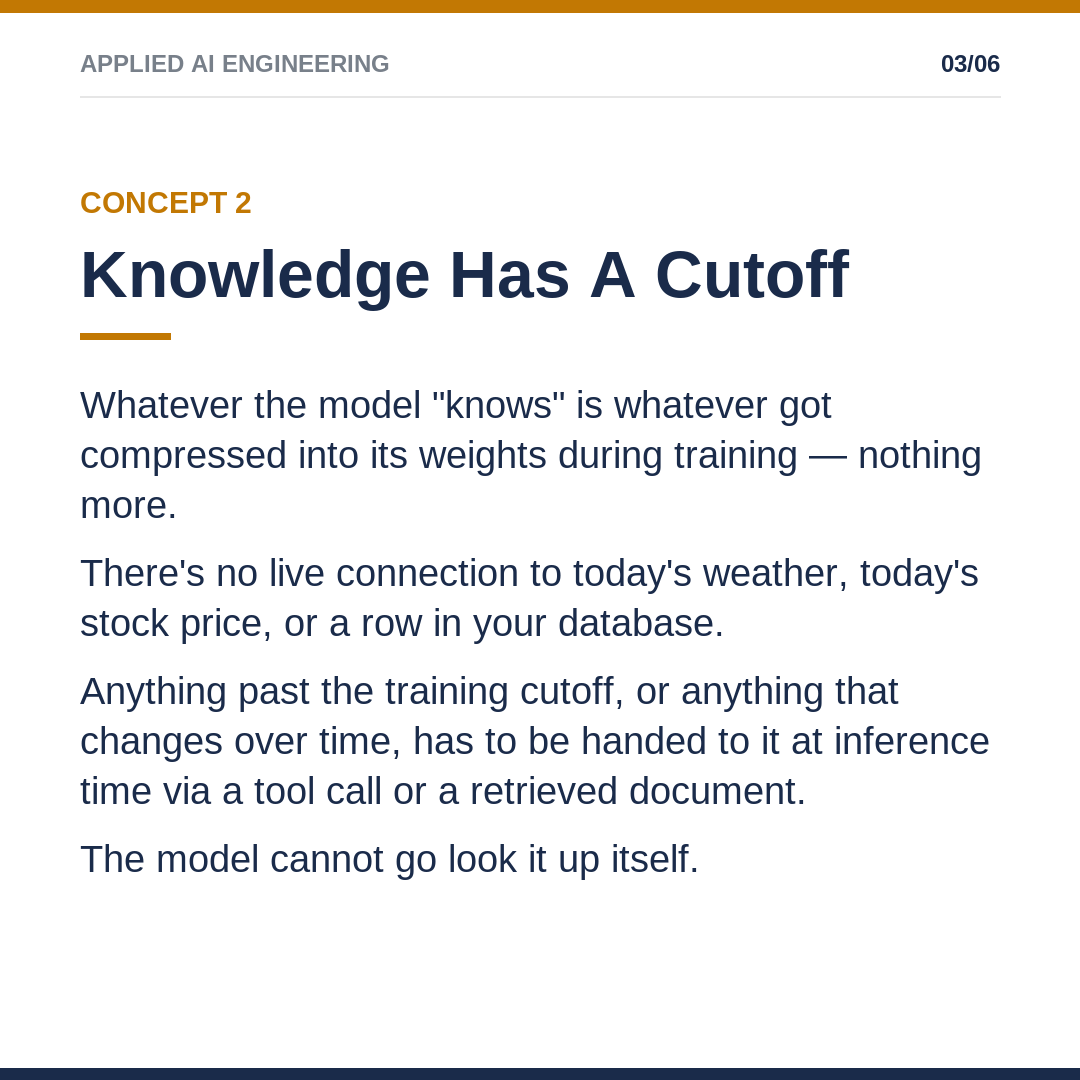
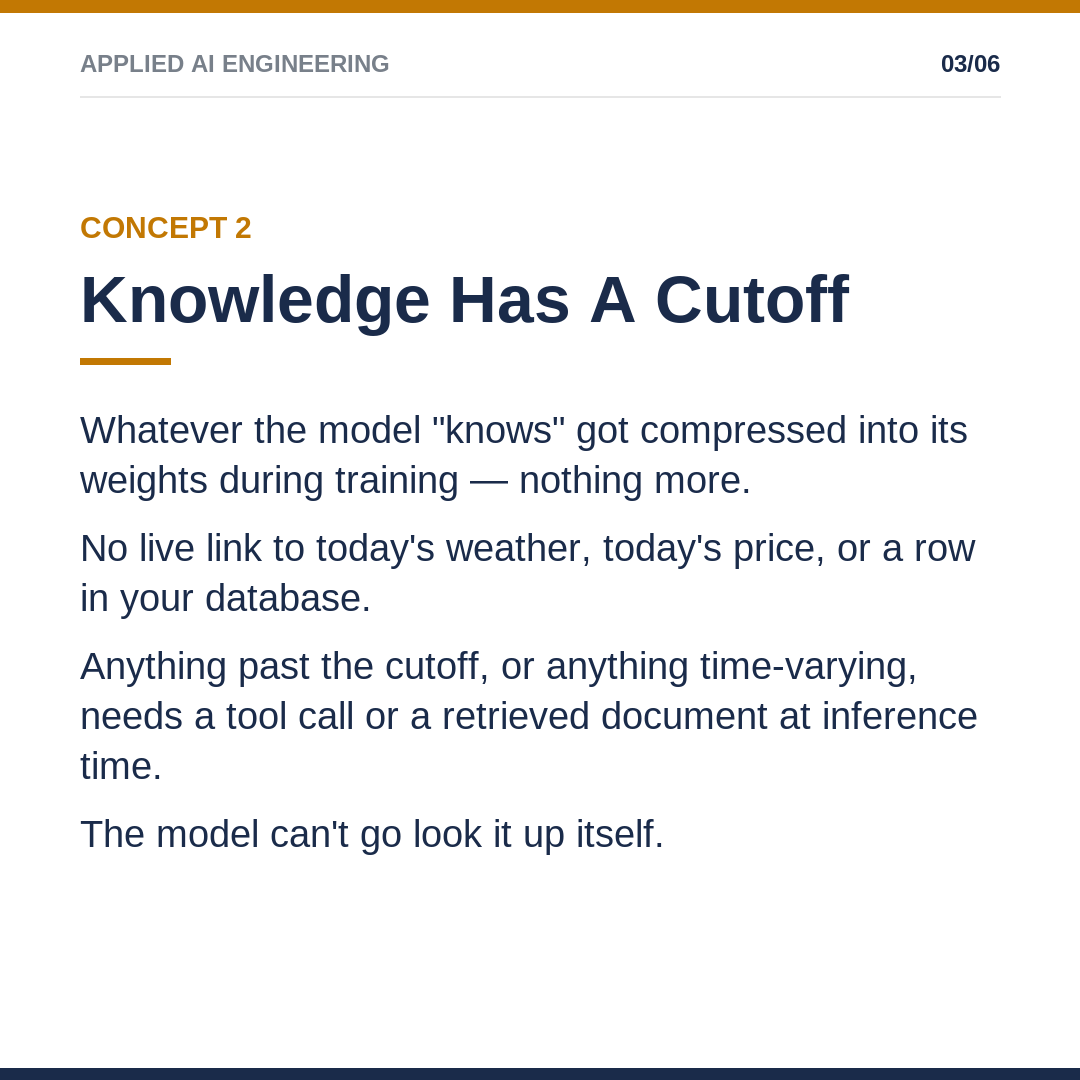
Retighten post 1 to Balanced Caveman tone
Cut secondary qualifiers from slides + copy per the new default tone
tier established between full Explained Caveman and terse Caveman.

Changed region(s): [[0.0611, 0.1528, 0.9167, 0.825]]

diff --git a/assets/social-posts/01-what-is-an-llm/copy.md b/assets/social-posts/01-what-is-an-llm/copy.md
@@ -1,9 +1,9 @@
 --- LINKEDIN ---
 What is an LLM, actually?
 
-A next-token predictor. A huge set of trained weights that, given some text, outputs a probability over what token comes next — nothing more mystical than that, and everything else in this field is built on top of that one mechanism.
+A next-token predictor. Trained weights that, given some text, output a probability over the next token — nothing more mystical than that, and everything else in this field builds on it.
 
-Two consequences most people skip past: its knowledge is frozen at a training cutoff (no live link to today's weather, price, or your database — that has to come from a tool call or retrieval), and it has no hands (it can only ever produce text, even text shaped like a function call — something else has to actually run the action).
+Two consequences most people skip past: its knowledge is frozen at a training cutoff (no live link to today's weather, price, or your database — needs a tool call or retrieval), and it has no hands (it can only produce text, even text shaped like a function call — something else has to run the action).
 
 The one most worth internalizing: fluent isn't the same as correct. Training optimizes for statistically plausible continuations, not verified truth.
 
